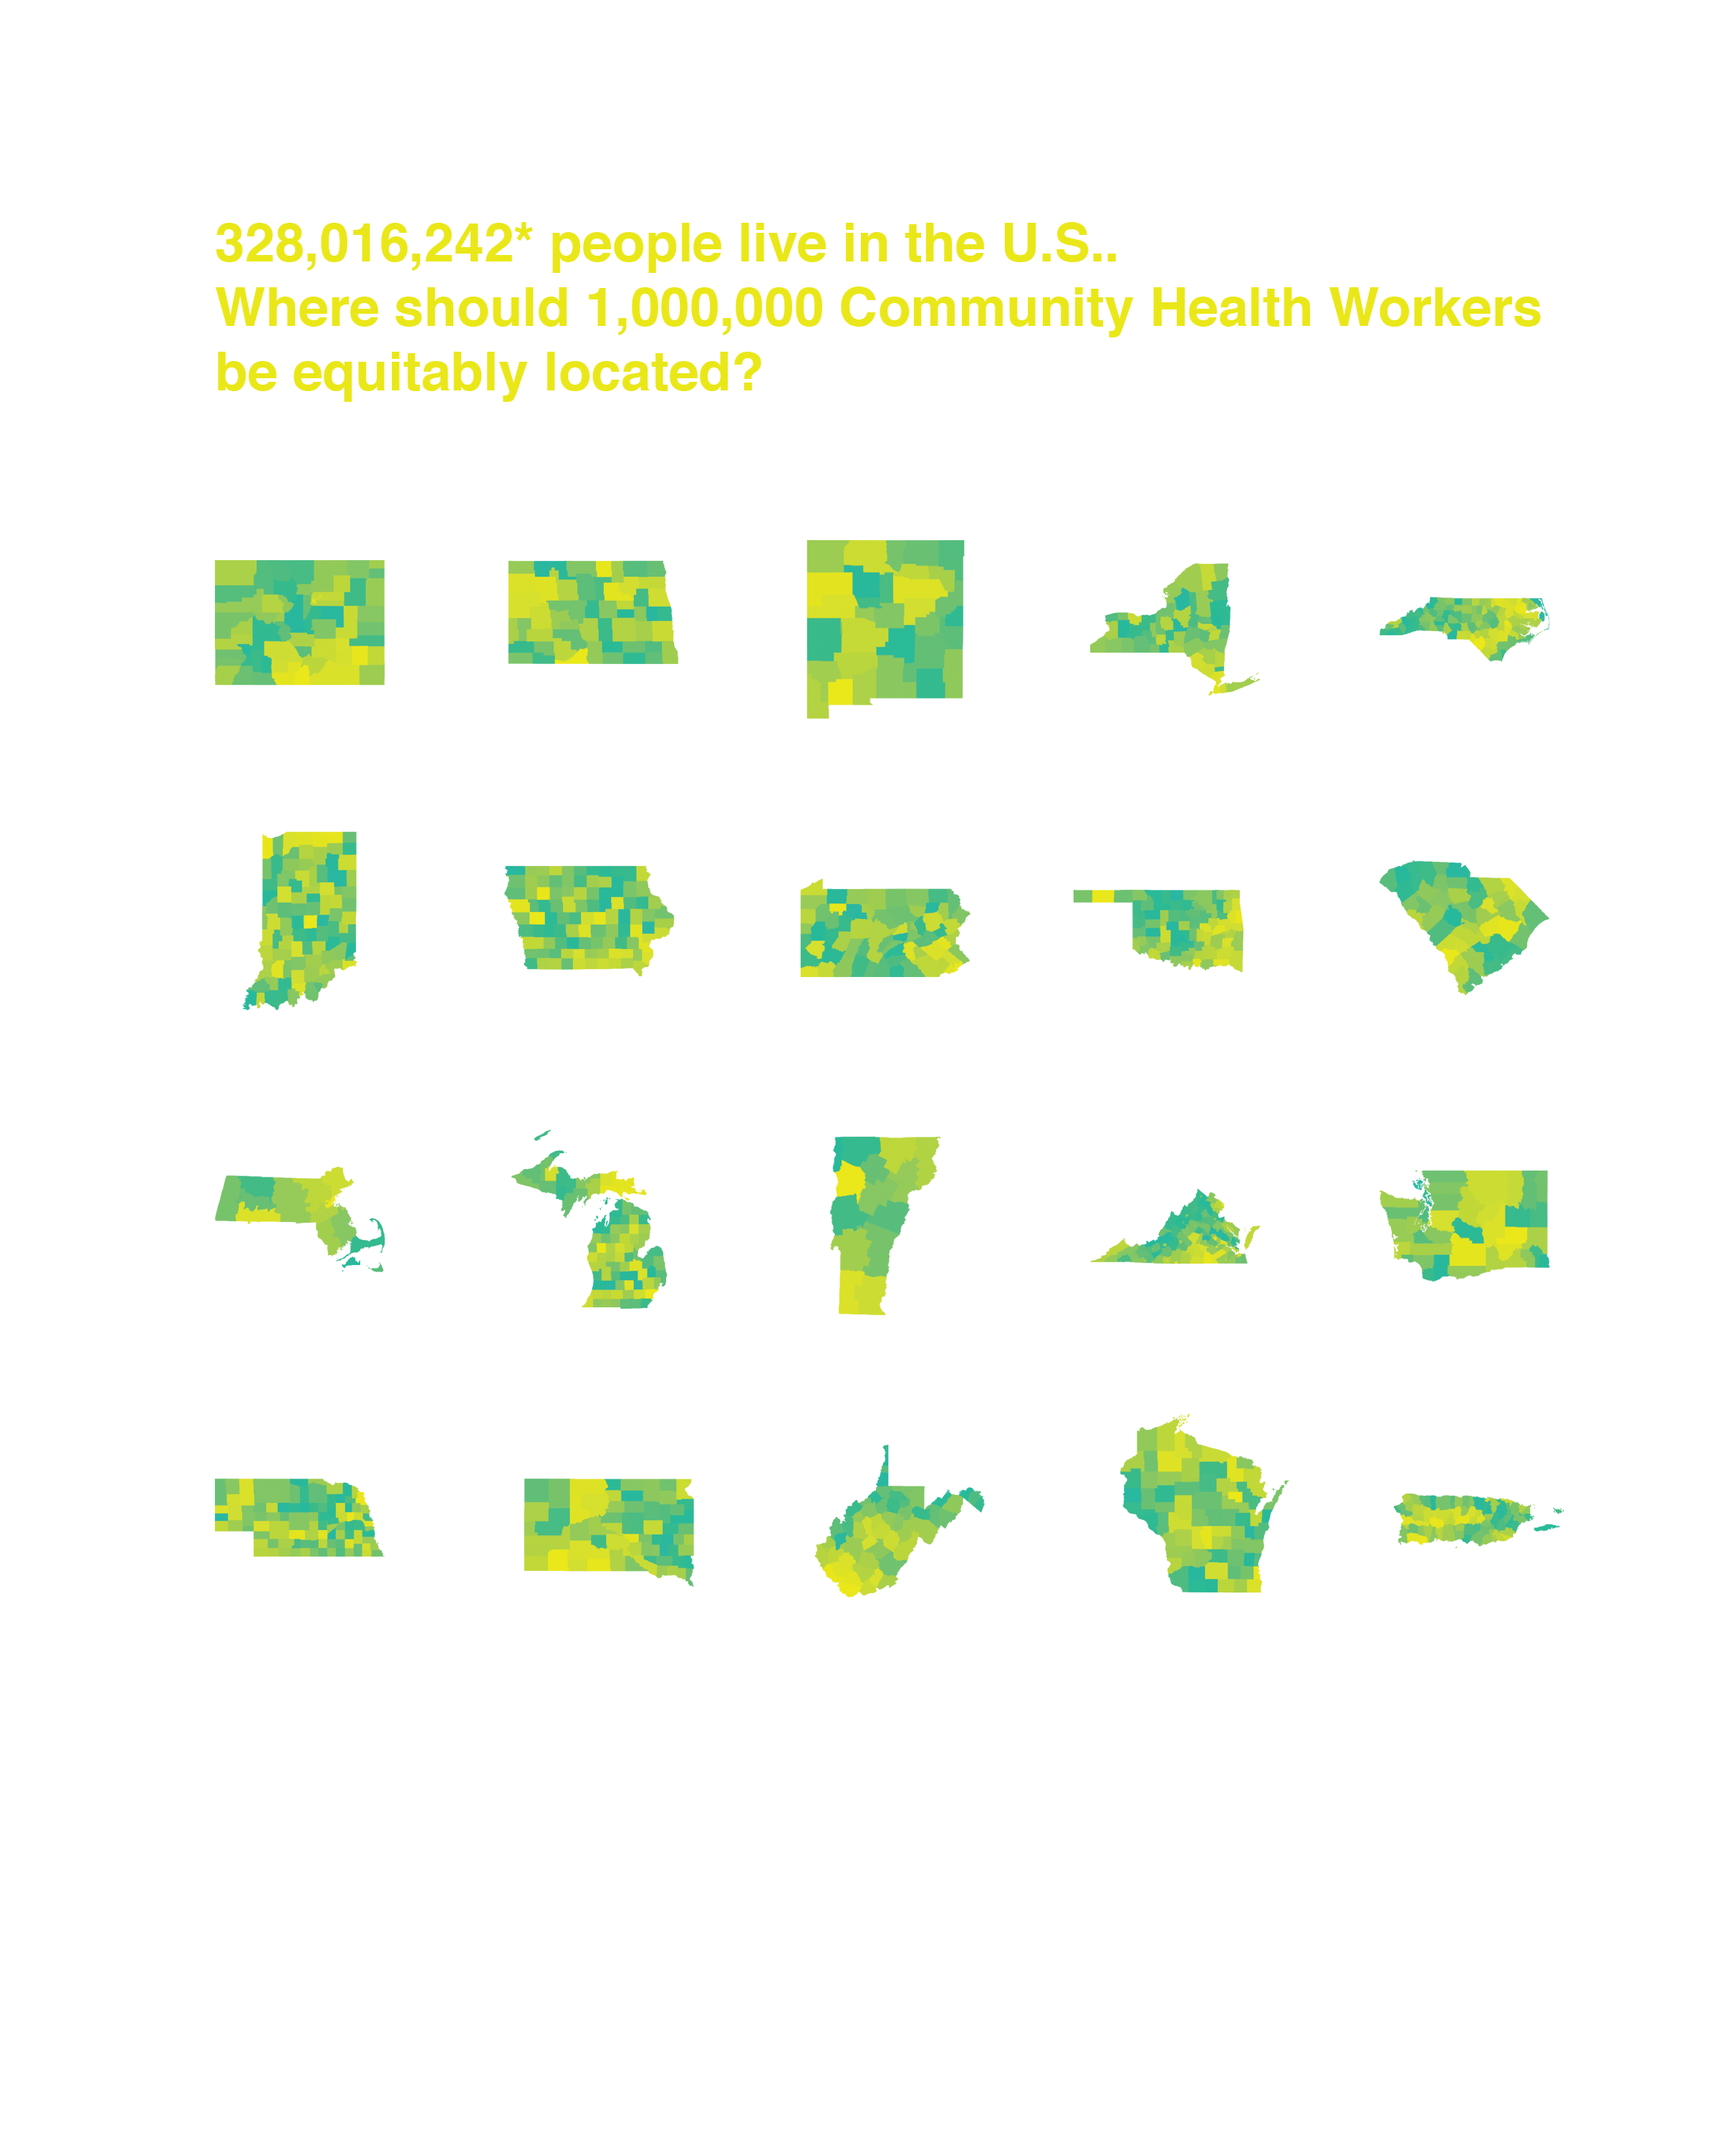
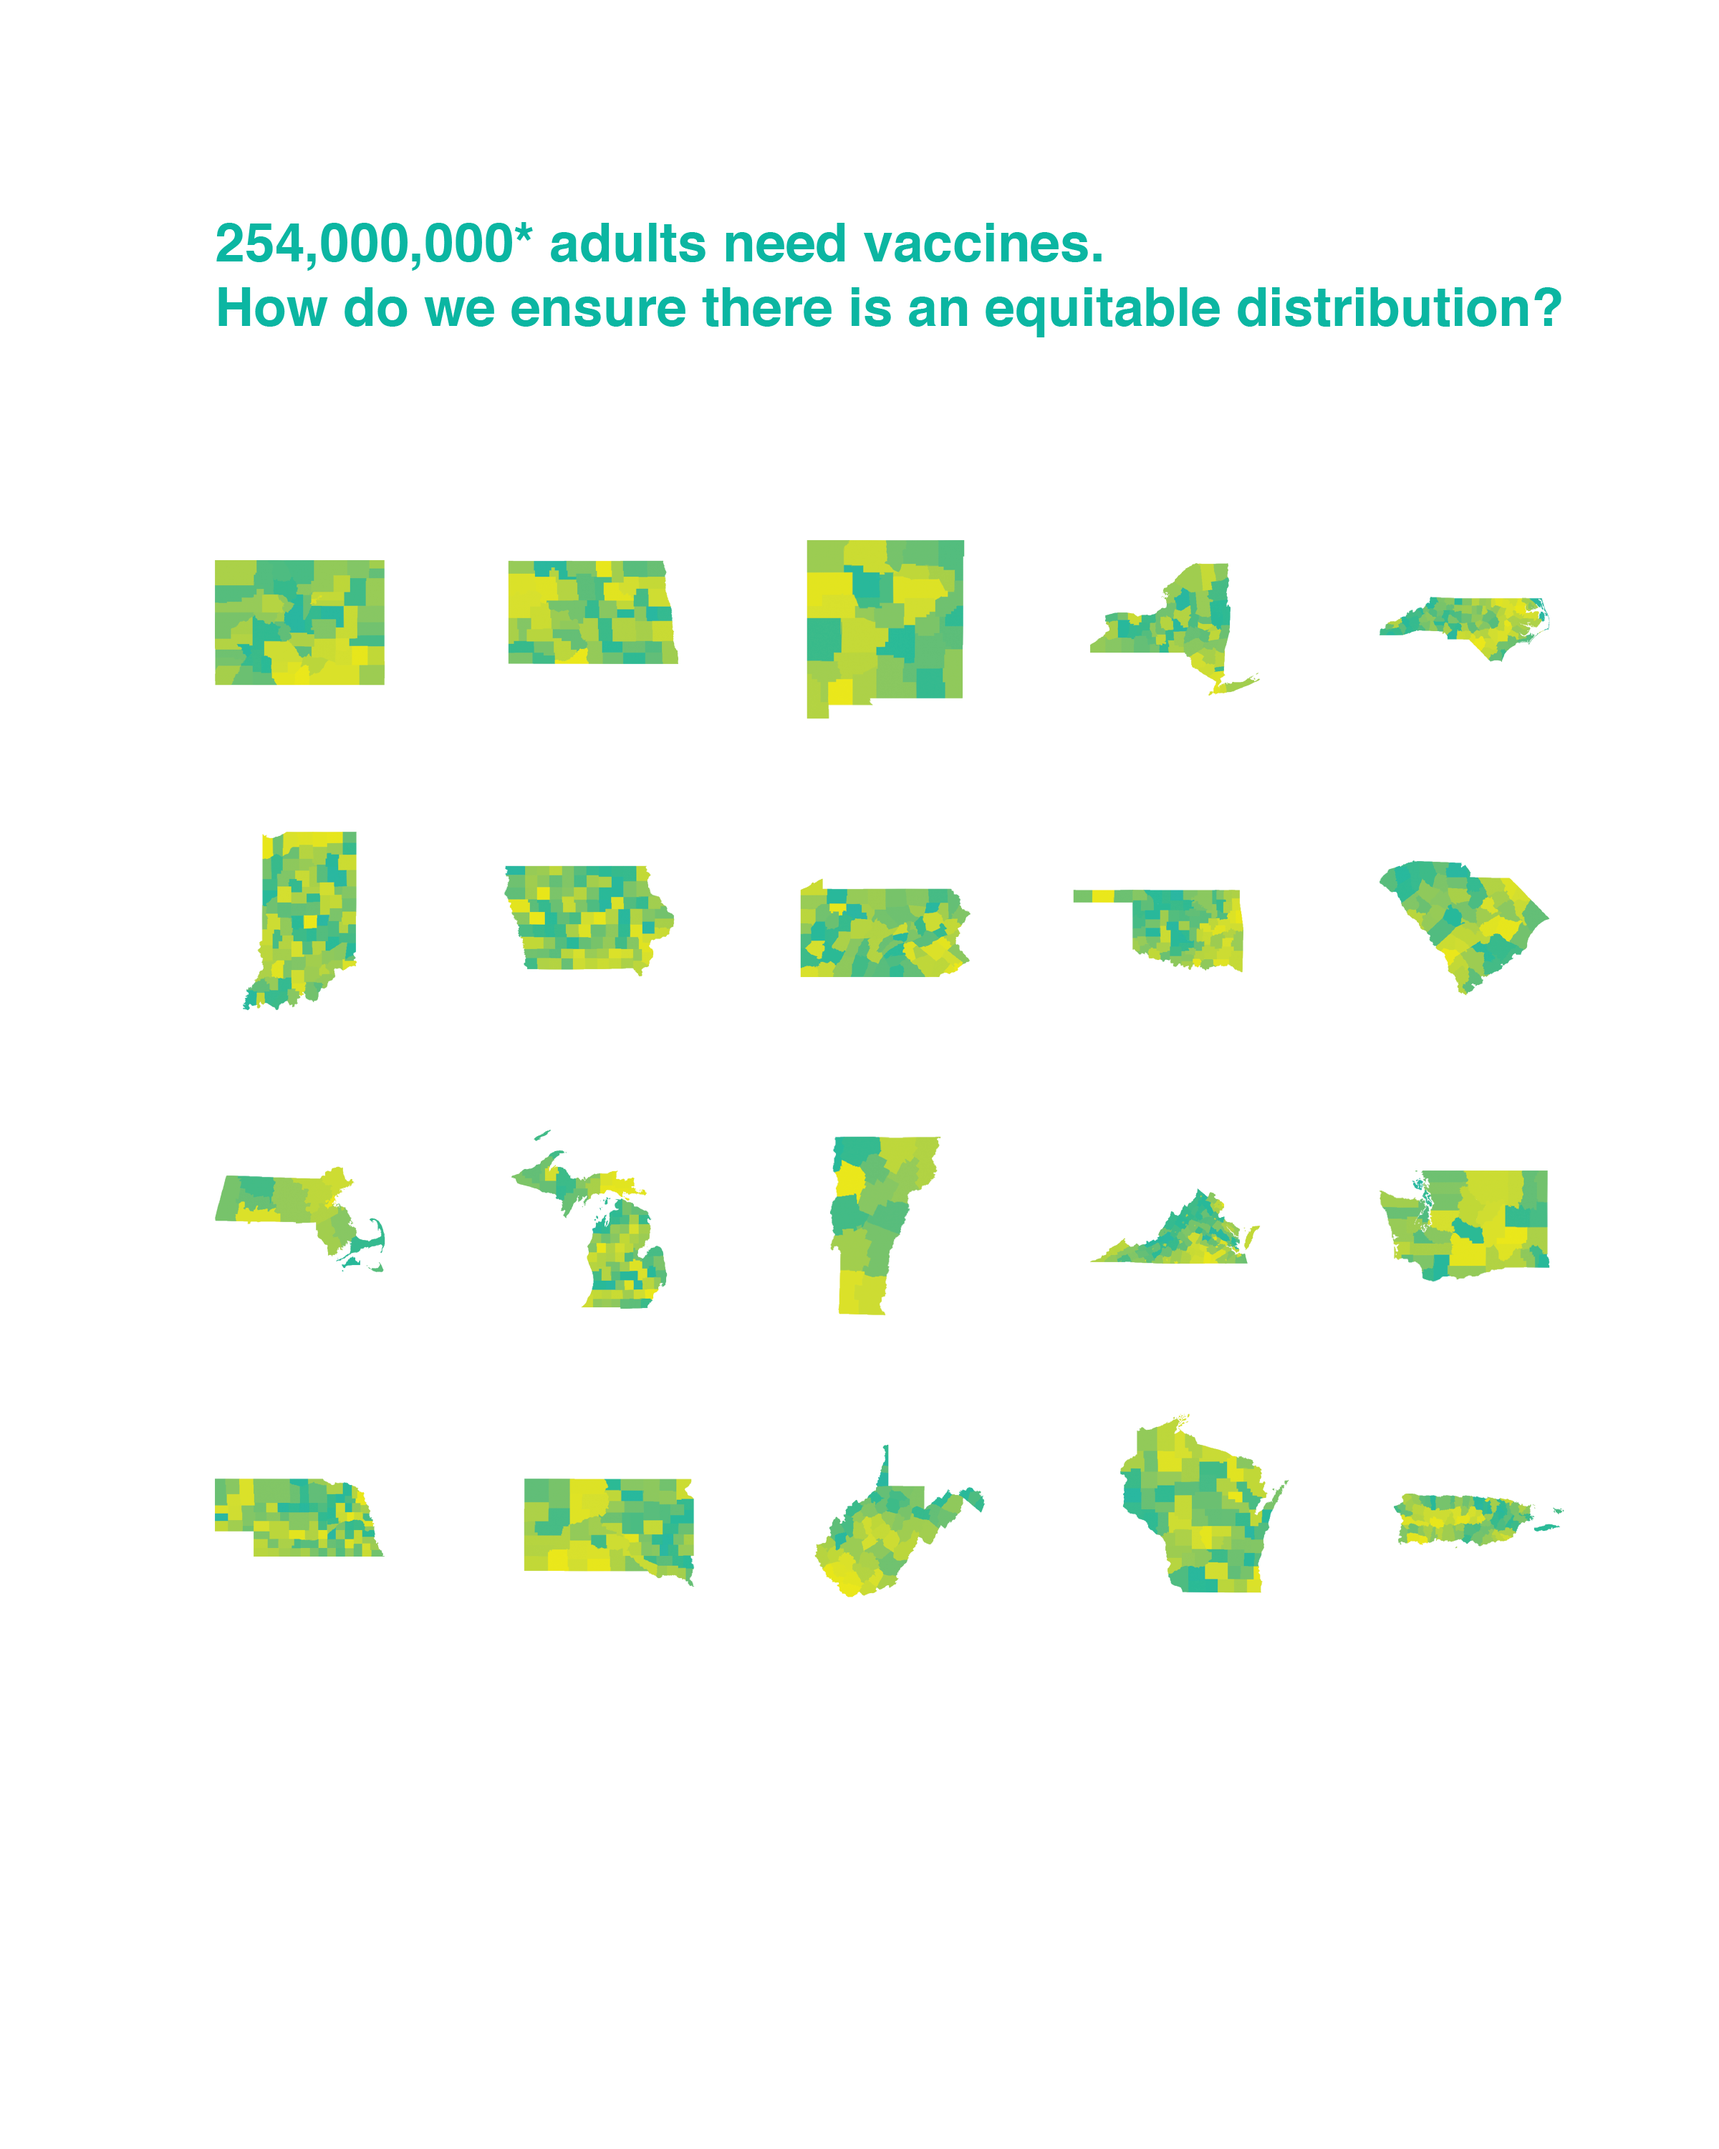
interface fixes - rollover, expalination text, front page order

Changed region(s): [[0.125, 0.093, 0.9062, 0.186]]

diff --git a/vaccine_allocations_2.js b/vaccine_allocations_2.js
@@ -50,8 +50,8 @@ var measureDisplayText = {
 var measureDefinitionText = {
      Adult_pop:"Allocation is in proportion to the estimated adult population of each county.",
      Firstphase:"Phase 1a includes healthcare personnel & long-term care facility residents",
-     SVI:"County Phase 1a estimates are weighted by the county’s Social Vulnerability Index (SVI) ranking’s 15 social factors.",
-     SVI_no_race:"County Phase 1a estimates are weighted by the county’s only 14 social factors from SVI as the race/ethnicity variable (i.e., “Minority Status”) is excluded."
+     SVI:"County Phase 1a estimates weighted by the county’s Social Vulnerability Index (SVI).",
+     SVI_no_race:"County Phase 1a estimates weighted by the county’s SVI excluding the race/ethnicity variable (i.e., “Minority Status”)."
 }
 var measureDisplayTextPop={
      Adult_pop:"Adult Population",
@@ -419,18 +419,37 @@ function mouseout(){
              map2.setFilter("county_outline",["==","FIPS",""])
 }    
 function mouseoverText(county,fips,doses1,doses2){
+    
+    
     if(parseFloat(doses1)>parseFloat(doses2)){
-        var difference = "Allocating by "+measureDisplayText[pub.column1]+" means <strong><span class=\"morePopup\">"
-        +numberWithCommas(Math.floor(doses1-doses2))
-        +" doses more</span></strong> <br>or <strong><span class=\"morePopup\">"
-        + numberWithCommas(Math.floor((doses1-doses2)/doses1*10000)/100)
-        +"% more</span></strong> doses than allocating by "+measureDisplayText[pub.column2]+" for this county."
-    }else{
-        var difference = "Allocating by "+measureDisplayText[pub.column1]+" means <strong><span class=\"lessPopup\">"+numberWithCommas(Math.floor(doses2-doses1))
-        +" doses less</span> </strong><br>or <strong><span class=\"lessPopup\">"
-        + numberWithCommas(Math.floor((doses2-doses1)/doses1*10000)/100)
-        +"% less</span></strong></span> doses than allocating by "+measureDisplayText[pub.column2]+" for this county."
+        
+        if(parseFloat(doses1)==0){
+            var difference = "Allocating by "+measureDisplayText[pub.column1]+" means <strong><span class=\"morePopup\">"
+            +numberWithCommas(Math.floor(doses1-doses2))
+            +" doses more</span></strong> than allocating by "+measureDisplayText[pub.column2]+" for this county."
+        }else{
+            var difference = "Allocating by "+measureDisplayText[pub.column1]+" means <strong><span class=\"morePopup\">"
+            +numberWithCommas(Math.floor(doses1-doses2))
+            +" doses more</span></strong> than allocating by "+measureDisplayText[pub.column2]
+            +" for this county <strong><span class=\"morePopup\">("+ numberWithCommas(Math.floor((doses1-doses2)/doses1*10000)/100)+"% more)</span></strong></span>."
+            
+        }
+        
+     }else{
+         if(parseFloat(doses1)==0){
+            var difference = "Allocating by "+measureDisplayText[pub.column1]+" means <strong><span class=\"lessPopup\">"
+            +numberWithCommas(Math.floor(doses1-doses2))
+            +" doses less</span></strong> than allocating by "+measureDisplayText[pub.column2]+" for this county."
+         }else{
+                var difference = "Allocating by "+measureDisplayText[pub.column1]+" means <strong><span class=\"lessPopup\">"+numberWithCommas(Math.floor(doses2-doses1))
+                +" doses less</span> </strong><br> than allocating by "+measureDisplayText[pub.column2]+" for this county <strong><span class=\"lessPopup\">("
+                + numberWithCommas(Math.floor((doses2-doses1)/doses1*10000)/100)
+                +"% less)</span></strong></span>."
+         }
+        
     }
+    
+    
     d3.select("#mapPop")
     .html("<strong>"+county+" County</strong>"
         +"<br>Total Adult Population: <strong>"+numberWithCommas(pub.modelDictionary[fips]["Adult_pop"])+" Persons</strong>"

diff --git a/index_new_2.html b/index_new_2.html
@@ -100,7 +100,7 @@
         padding-top:200px;
       }
       #vaccine{
-        right:0px;
+        left:0px;
         top:0px;
         color:rgb(16, 182, 163);
           width: 40%;
@@ -116,7 +116,7 @@
       }
       
       #chw{
-        left:0px;
+        right:0px;
           width: 40%;
           background-image: url("front_page_2.png");
           background-position: center;
@@ -162,8 +162,8 @@ Where should 1,000,000 Community Health Workers be equitably located? <br><br>
 </div>
 
 <script>
-  var bgColor2 = "rgb(16, 182, 163)"
-  var bgColor = "rgb(236, 235, 16)"
+  var bgColor2 = "rgb(236, 235, 16)"
+  var bgColor =  "rgb(16, 182, 163)"
   
   
   var highlightColor = "rgb(16, 182, 163)"

diff --git a/vaccine_ranking_2.js b/vaccine_ranking_2.js
@@ -36,7 +36,7 @@ var colors = ["#50ac72",
 "#c96840"]
 
 var measureSet = [
-     "Adult_pop",
+     //"Adult_pop",
      "Firstphase",
      "SVI",
      "SVI_no_race"
